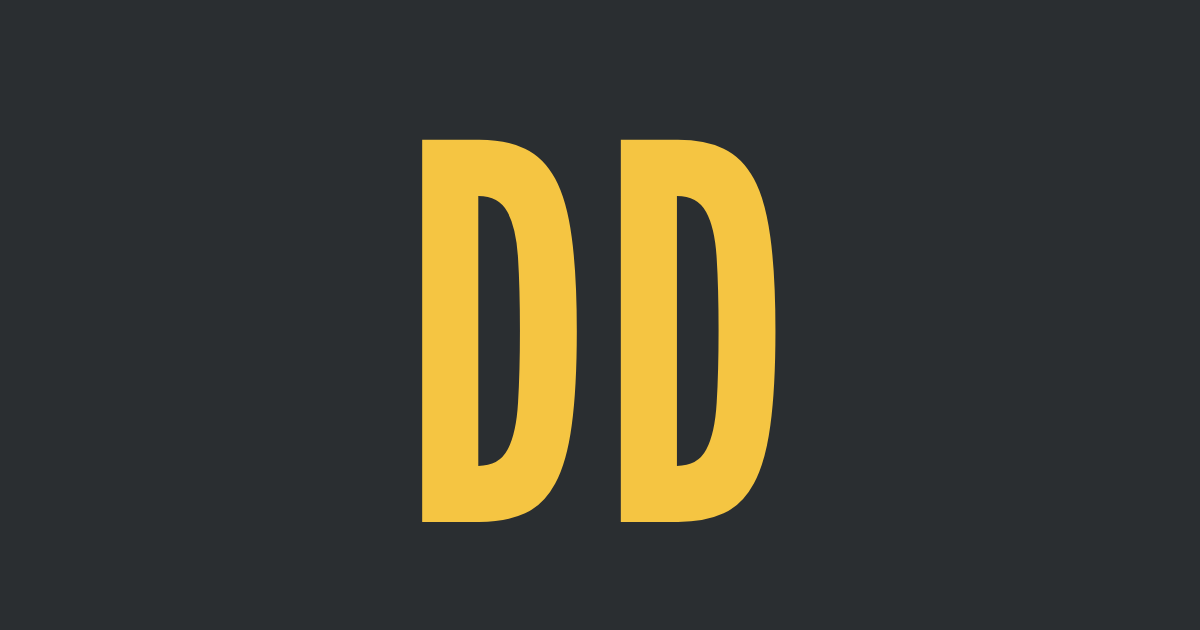
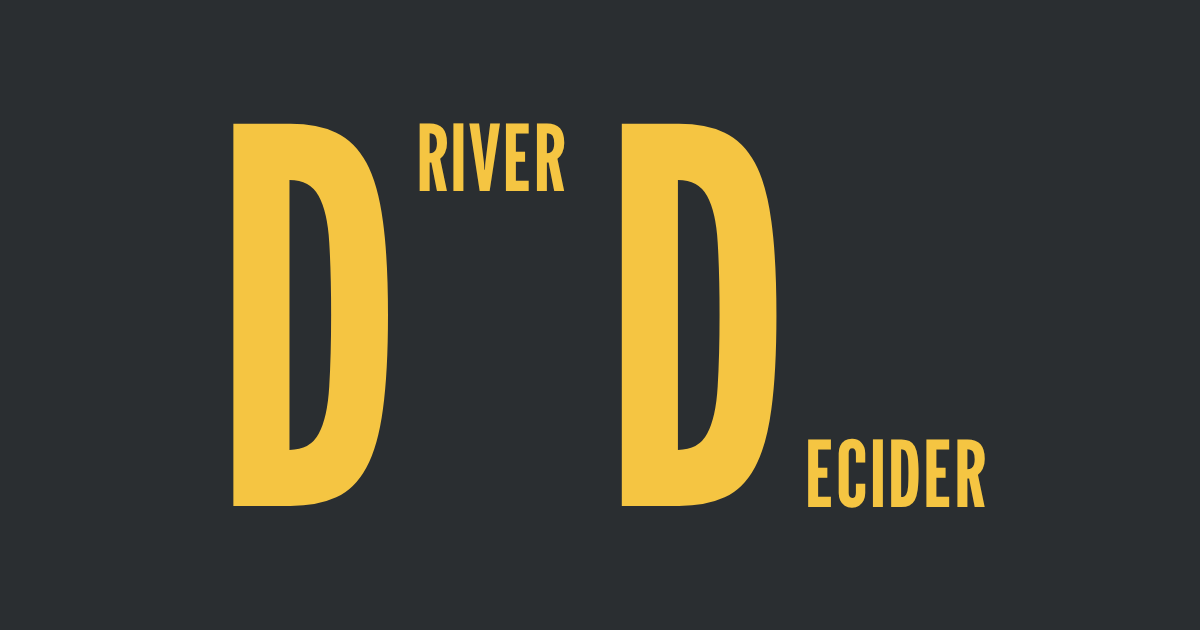
Link preview: small 'river' and 'ecider' beside each D
Claude-Session: https://claude.ai/code/session_01X2ygqAFiK6FBAHYuGg4oQM

diff --git a/site/index.html b/site/index.html
@@ -14,7 +14,7 @@
 <meta property="og:image" content="https://driverdecider.zombe.es/og.png">
 <meta property="og:image:width" content="1200">
 <meta property="og:image:height" content="630">
-<meta property="og:image:alt" content="DD in yellow on asphalt gray">
+<meta property="og:image:alt" content="Driver Decider: DD in yellow on asphalt gray, with river and ecider in small letters">
 <meta name="twitter:card" content="summary_large_image">
 <meta name="twitter:title" content="Driver Decider">
 <meta name="twitter:image" content="https://driverdecider.zombe.es/og.png">

diff --git a/web/page.html b/web/page.html
@@ -10,7 +10,7 @@
 <meta property="og:image" content="https://driverdecider.zombe.es/og.png">
 <meta property="og:image:width" content="1200">
 <meta property="og:image:height" content="630">
-<meta property="og:image:alt" content="DD in yellow on asphalt gray">
+<meta property="og:image:alt" content="Driver Decider: DD in yellow on asphalt gray, with river and ecider in small letters">
 <meta name="twitter:card" content="summary_large_image">
 <meta name="twitter:title" content="Driver Decider">
 <meta name="twitter:image" content="https://driverdecider.zombe.es/og.png">
